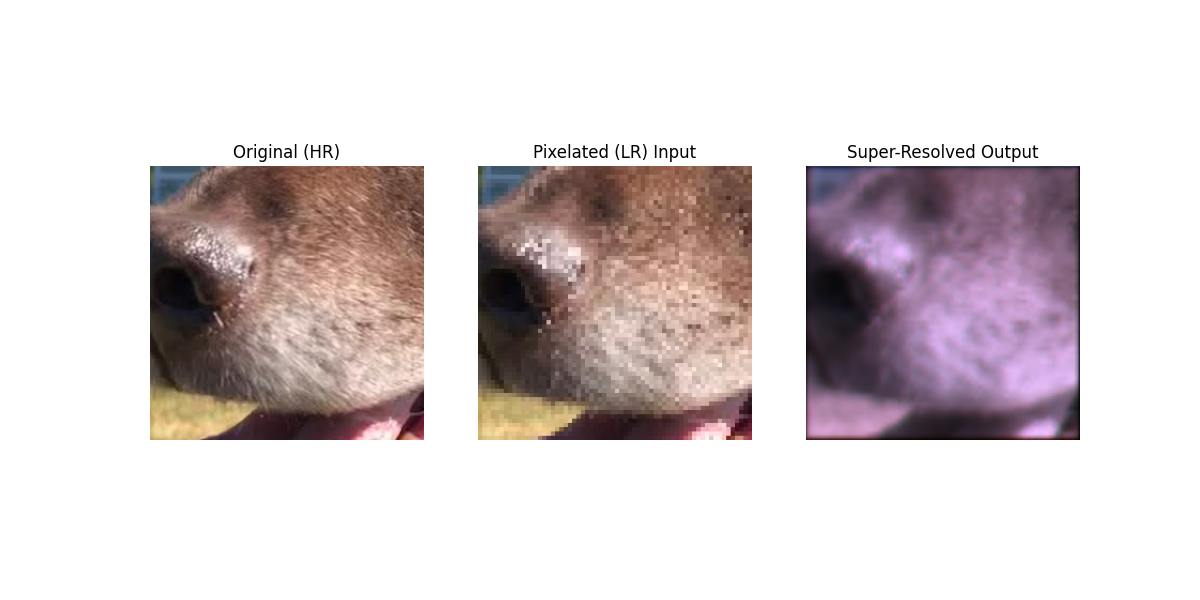
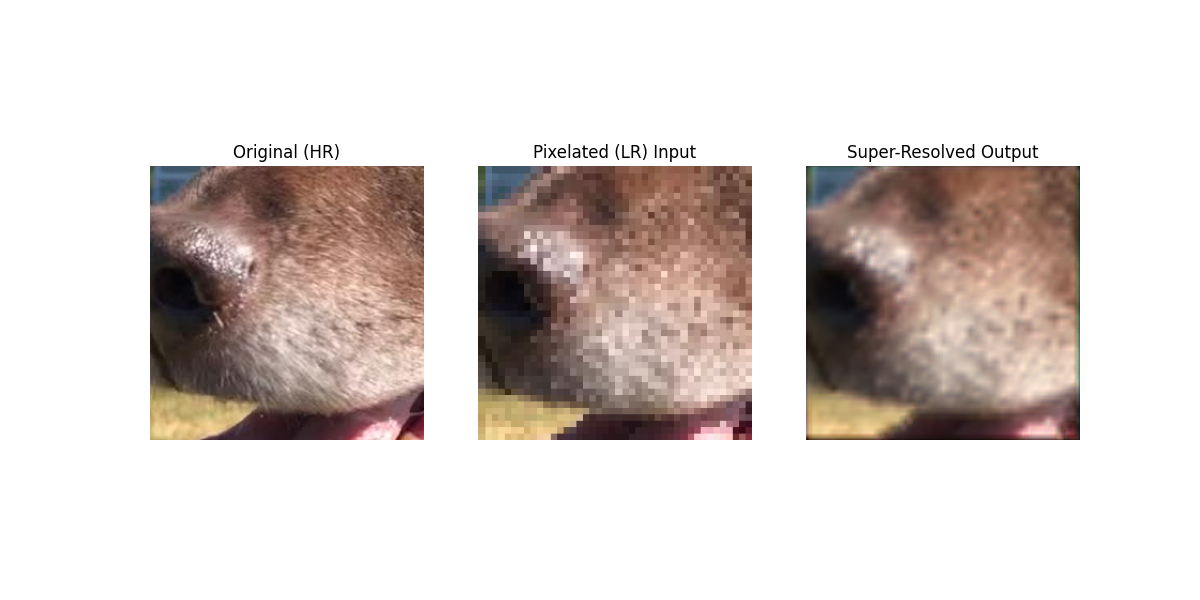
tried larger test and created collection folder for output figures

diff --git a/python scripts/main.py b/python scripts/main.py
@@ -9,7 +9,7 @@ if __name__ == "__main__":
     # only load dataset if not already
     if not Path("dataset").exists():
         print("creating dataset...")
-        generate_dataset.create_dataset(IMG_SIZE, 8, 2)
+        generate_dataset.create_dataset(IMG_SIZE, 80, 20)
         print("successfully created dataset")
     else:
         print("dataset already exists, skipping download...")

diff --git a/python scripts/generate_dataset.py b/python scripts/generate_dataset.py
@@ -1,4 +1,3 @@
-import os
 import requests
 from pathlib import Path
 import cv2
